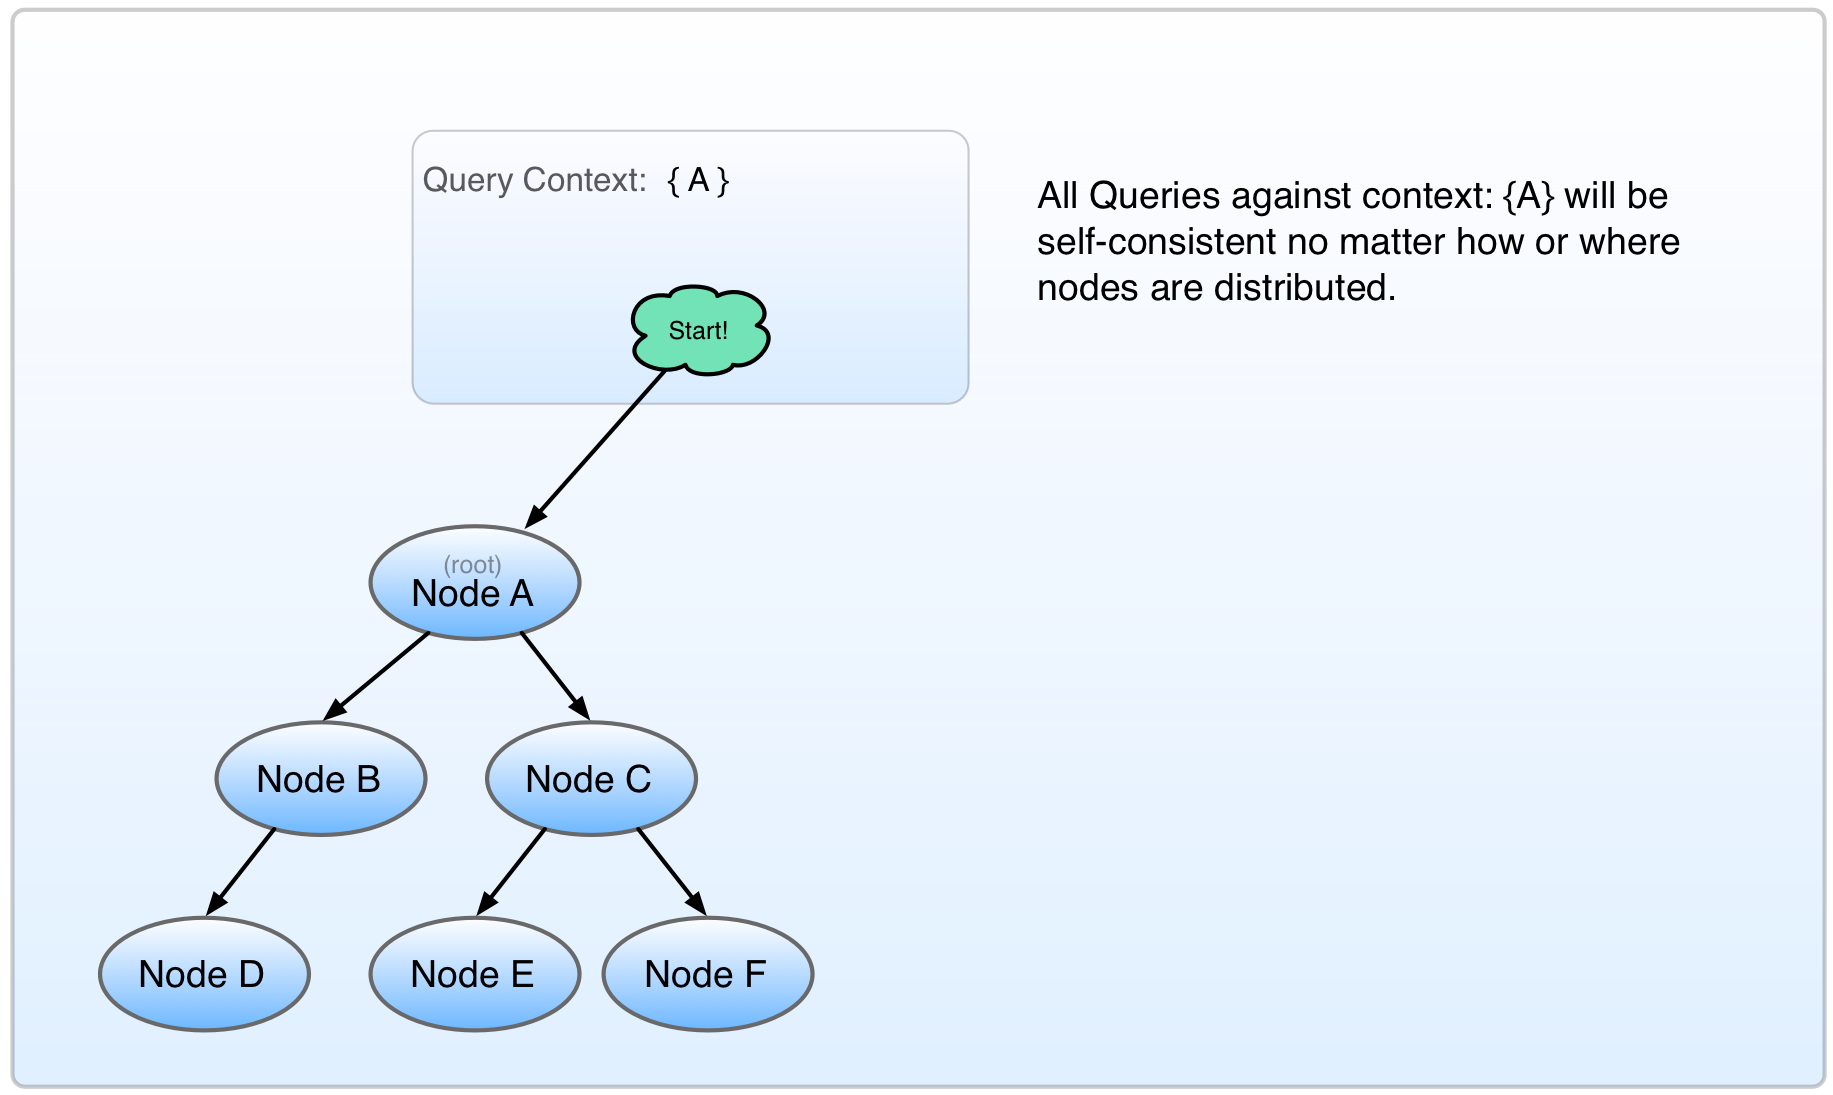
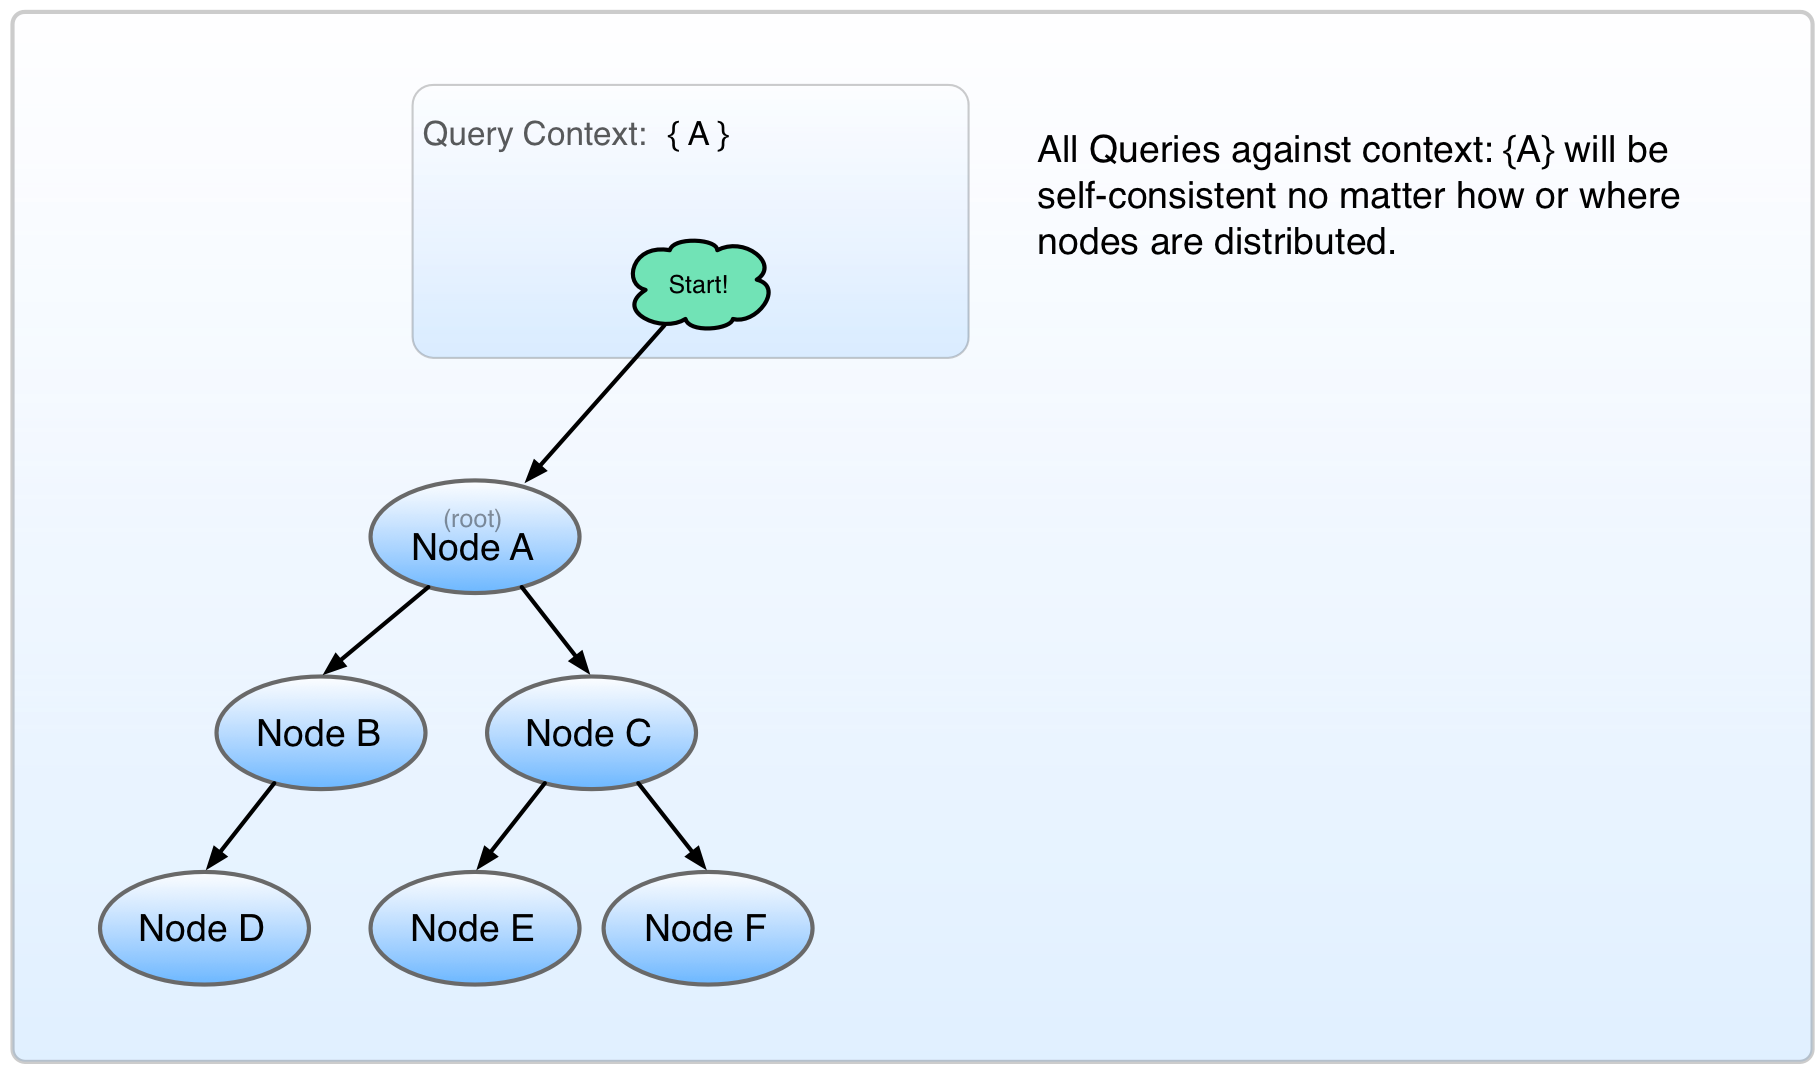
fiddling with image dimensions

diff --git a/docs/CONSISTENCY_MODEL.md b/docs/CONSISTENCY_MODEL.md
@@ -18,7 +18,7 @@ These data structures are elegant, and efficient. Unbase intends to extend this 
 
 In immutable data structures, when an given node is edited, values are "edited" by originating one or more new nodes, and recreating all parent nodes up to the root node. This provides a compact context against which all subsequent queries will experience a consistent worldview.
 
-<img src="immutable_ds_1.png">
+<img src="immutable_ds_1.png" syle="width: 455px">
 Fig 1.
 
 
